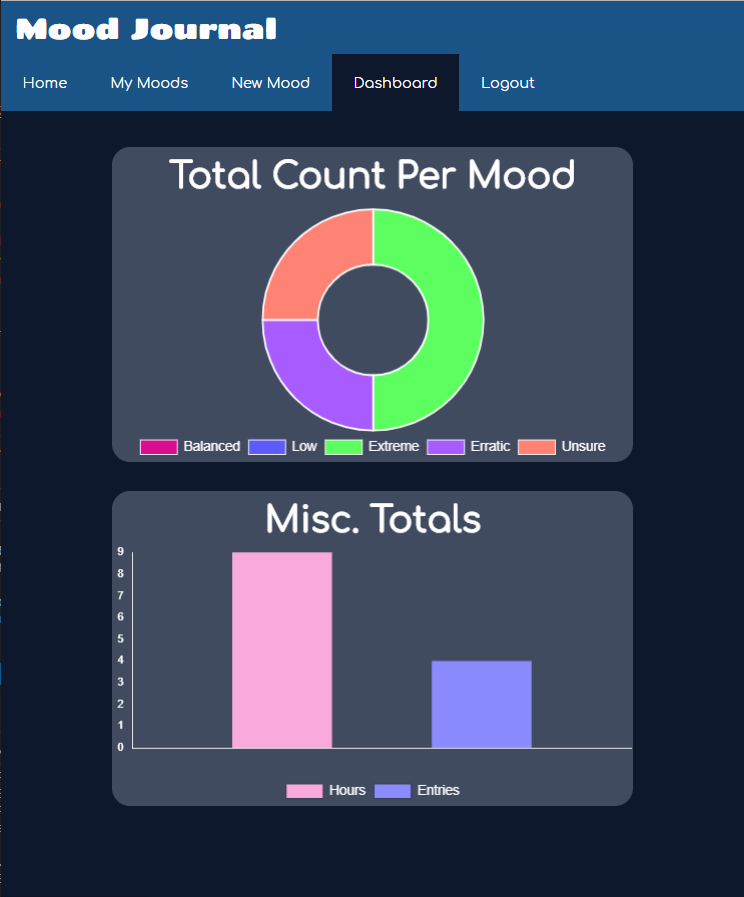
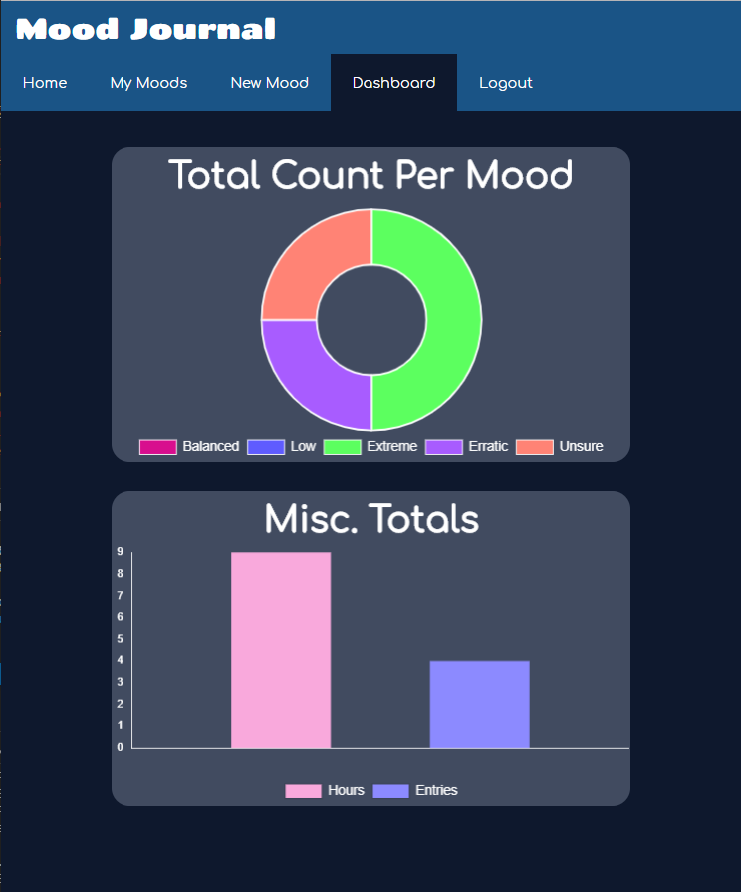
landing page styling completed

diff --git a/src/components/LandingPage/LandingPage.js b/src/components/LandingPage/LandingPage.js
@@ -1,5 +1,7 @@
 import React, { Component } from 'react';
 import './LandingPage.css'
+import moods from './images/moods_page.PNG'
+import dashboard from './images/dashboard_page.PNG'
 
 export default class LandingPage extends Component {
   render() {
@@ -9,27 +11,25 @@ export default class LandingPage extends Component {
         <div className="landing-wrap">
           <header role="banner">
             <h1 className="landing-main">Mood Journal</h1>
-            <h2 className="landing-text">Understand the inner you.</h2>
           </header>
           <section>
             <header>
               <h3 className="landing-3">Experience your inner emotions</h3>
             </header>
-            <p>[<em>placeholder for screenshot of journal interface</em>]</p>
             <p className="landing-text">This mood journal is a documentation of your moods and/or emotions. After collecting a handful of entries, you can return back and read the different emotions you went through. During the process, you can discover new things you never understood about yourself.</p>
           </section>
           <section>
             <header>
               <h3 className="landing-3">Record your moods</h3>
             </header>
-            <p>[<em>placeholder for screenshot of journal interface</em>]</p>
+            <img src={moods} alt="moods page" className="moods"></img>
             <p className="landing-text">By collecting reoccuring data of your moods and/or emotions, the person starts to be self-aware of things they never thought existed. This can take the person through a multitude of directions including self-discovery, self-improvement, and introspection.</p>
           </section>
           <section>
             <header>
               <h3 className="landing-3">Keep track of your progress</h3>
             </header>
-            <p>[<em>placeholder for screenshot of journal entries</em>]</p>
+            <img src={dashboard} alt="dashboard page" className="moods"></img>
             <p className="landing-text">This is a whole list view of journal entries to give a general picture of how often you document an entry.</p>
           </section>
         </div>

diff --git a/src/components/LandingPage/LandingPage.css b/src/components/LandingPage/LandingPage.css
@@ -14,6 +14,10 @@
   text-align: center;
 }
 
+.landing-wrap section {
+  padding-top: 25px;
+}
+
 .landing-text {
   padding: 20px 0 20px 0;
   line-height: 1.2;
@@ -21,6 +25,16 @@
 
 .landing-3 {
   font-size: 1.8rem;
+}
+
+header>h2 {
+  font-size: 1.2rem;
+}
+
+img.moods {
+  width: 65%;
+  height: 60%;
+  padding: 10px 0;
 }
 
 @media screen and (min-width: 968px) {
